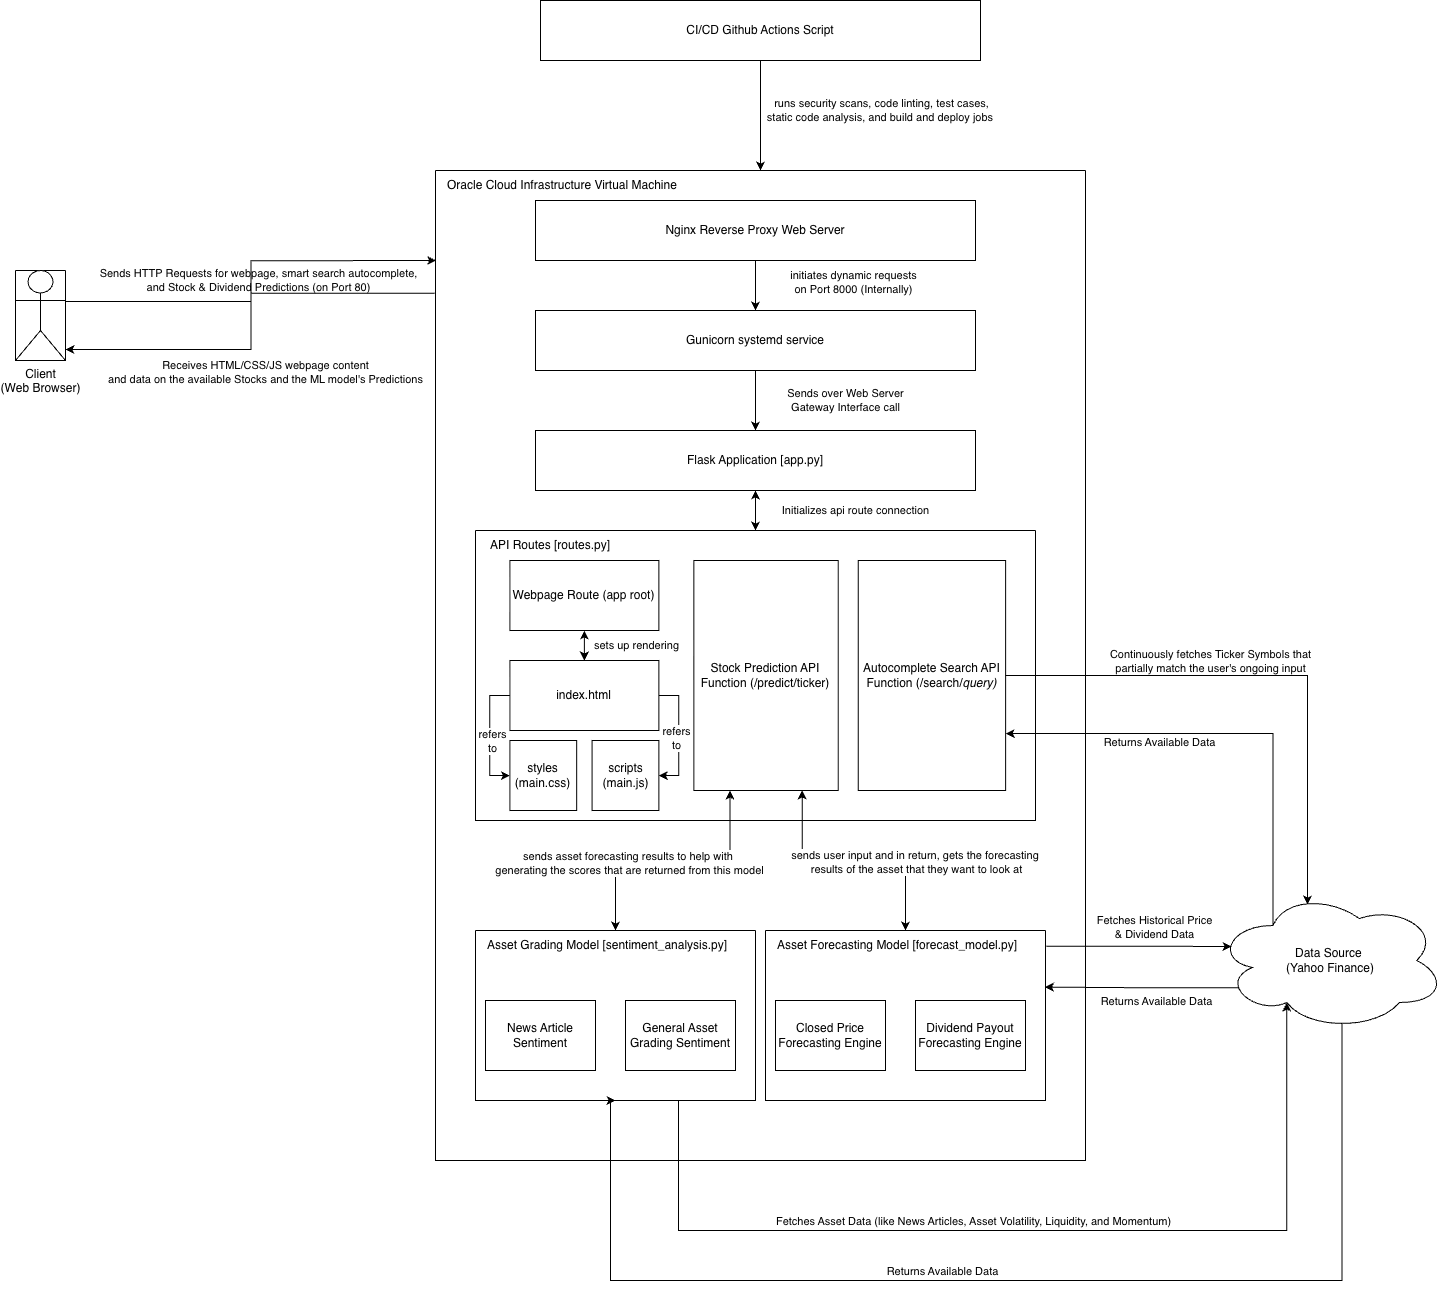
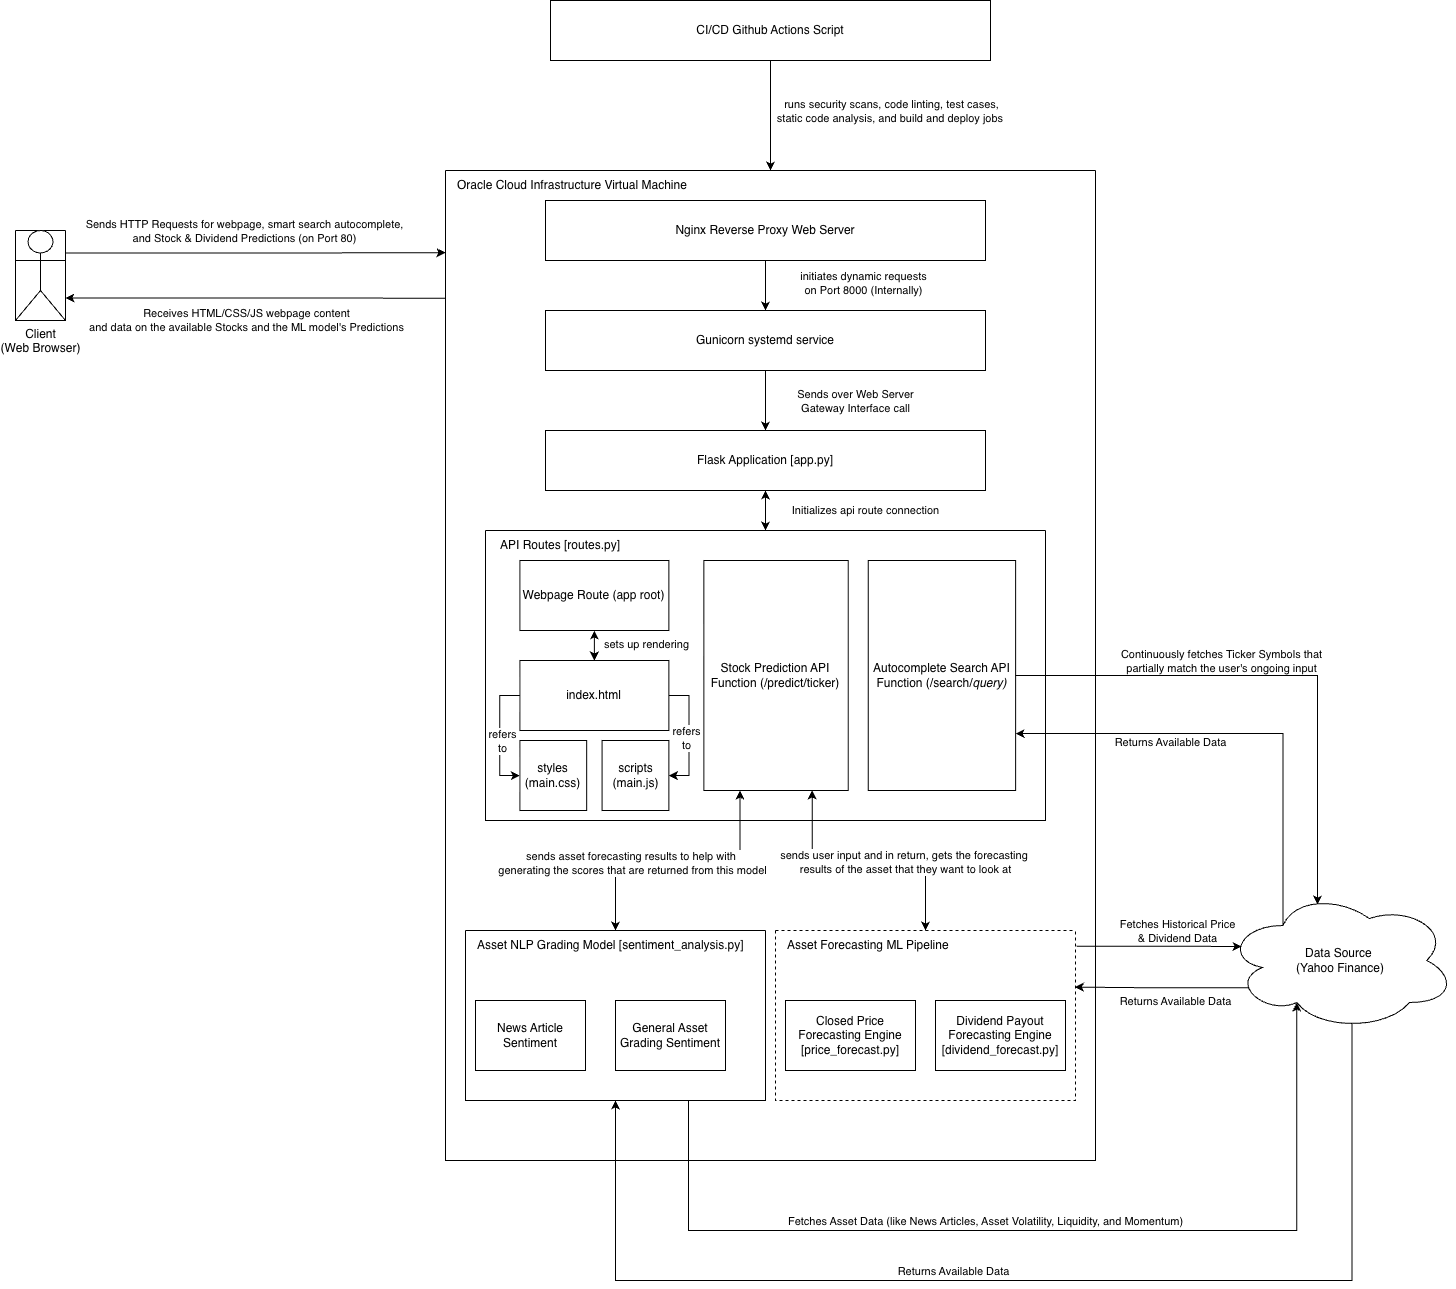
removed duplicated code

diff --git a/backend/apis/routes.py b/backend/apis/routes.py
@@ -145,6 +145,108 @@ def search(query):
         logger.error(f"Search API error: {e}")
         return jsonify([])
 
+def _run_prediction_pipeline(safe_ticker):
+    """Generator that runs the entire ML pipeline and yields progress updates, ending with the final payload."""
+    yield {"status": "processing", "step": "Gathering financial data", "progress": 15}
+    
+    # Fetch Company Fundamentals
+    info, is_fund, is_crypto, top_holdings, top_sectors = _fetch_company_fundamentals(safe_ticker)
+
+    # Run Quantitative ML
+    price_data_raw, div_data_raw = fetch_data(safe_ticker, target_window=1260, is_crypto=is_crypto)
+    if price_data_raw is None:
+        yield {"status": "error", "error": f"Invalid ticker or insufficient data for {safe_ticker}."}
+        return
+        
+    anchor_date = price_data_raw.index[-1]
+    today_close = float(price_data_raw["Close"].iloc[-1])
+
+    yield {"status": "processing", "step": "Predicting future prices", "progress": 30}
+    
+    # Run Price ML
+    price_results = run_price_prediction(price_data_raw, is_crypto=is_crypto, price_window=1260)
+    chart_future_dates, chart_future_prices, chart_future_upper, chart_future_lower = generate_future_chart_data(
+        price_results["p_anchors"], price_results["p_lower"], price_results["p_upper"], anchor_date, is_crypto, is_div=False
+    )
+
+    yield {"status": "processing", "step": "Predicting dividend payouts", "progress": 45}
+    
+    # Run Dividend ML
+    div_results = run_dividend_prediction(div_data_raw, anchor_date, div_window=25)
+    div_future_dates, div_future_amounts, div_future_upper, div_future_lower = generate_future_chart_data(
+        div_results["d_anchors"], div_results["d_lower"], div_results["d_upper"], anchor_date, is_crypto, is_div=True, avg_days_between=div_results["avg_days_between"]
+    )
+    
+    train_fit_div_dates = div_results["train_fit_div_dates"][-5:] if div_results["has_enough_div_data"] else []
+    train_fit_div_amounts = div_results["train_fit_div_amounts"][-5:] if div_results["has_enough_div_data"] else []
+    
+    days_in_year = 365 if is_crypto else 252
+    train_fit_dates = price_results["train_fit_dates"][-days_in_year:]
+    train_fit_prices = price_results["train_fit_prices"][-days_in_year:]
+    
+    chart_history = get_chart_data(
+        price_data=price_data_raw, 
+        div_data=div_data_raw,
+        is_crypto=is_crypto, 
+        show_all_prices=not price_results["has_enough_price_data"], 
+        show_all_divs=not div_results["has_enough_div_data"]
+    )
+    
+    raw_ml_data = {
+        "anchor_date": anchor_date,
+        "today_close": today_close,
+        "next_dividend_date": div_results["next_dividend_date"],
+        "price_forecasts": price_results["price_forecasts"],
+        "chart_future_dates": chart_future_dates,
+        "chart_future_prices": chart_future_prices,
+        "chart_future_upper": chart_future_upper,
+        "chart_future_lower": chart_future_lower,
+        "train_fit_dates": train_fit_dates,
+        "train_fit_prices": train_fit_prices,
+        "div_forecasts": div_results["div_forecasts"],
+        "div_future_dates": div_future_dates,
+        "div_future_amounts": div_future_amounts,
+        "div_future_upper": div_future_upper,
+        "div_future_lower": div_future_lower,
+        "train_fit_div_dates": train_fit_div_dates,
+        "train_fit_div_amounts": train_fit_div_amounts,
+    }
+
+    yield {"status": "processing", "step": "Reading latest news", "progress": 60}
+    
+    # Run NLP Sentiment Analysis
+    sentiment_score, news_dict = analyze_news_sentiment(safe_ticker)
+    
+    yield {"status": "processing", "step": "Analyzing market sentiment", "progress": 85}
+    
+    # Calculate Final Asset Grade
+    stock_grade, general_sentiment, fundamentals_dict = calculate_asset_grade(
+        raw_ml_data.get("price_forecasts", {}), 
+        raw_ml_data.get("div_forecasts", {}), 
+        sentiment_score,
+        info,
+        is_fund
+    )
+    
+    master_reasoning = {
+        "news": news_dict,
+        "fundamentals": fundamentals_dict,
+        "etf_holdings": top_holdings,
+        "etf_sectors": top_sectors
+    }
+    
+    nlp_data = {
+        "sentiment": general_sentiment,
+        "reasoning": master_reasoning,
+        "grade": stock_grade
+    }
+
+    # Format and Package the Final JSON Payload
+    final_payload = build_frontend_payload(safe_ticker, raw_ml_data, chart_history, nlp_data, info, is_crypto)
+    clean_result = sanitize_for_json(final_payload)
+    
+    yield {"status": "complete", "progress": 100, "result": clean_result}
+
 @api_bp.route('/predict/<string:ticker>', methods=['GET'])
 @cached(cache=forecast_cache)
 def predict(ticker):
@@ -153,97 +255,13 @@ def predict(ticker):
     logger.info(f" Received prediction request for ticker: {safe_ticker}")
     
     try:
-        # Fetch Company Fundamentals
-        info, is_fund, is_crypto, top_holdings, top_sectors = _fetch_company_fundamentals(safe_ticker)
-
-        # Run Quantitative ML
-        price_data_raw, div_data_raw = fetch_data(safe_ticker, target_window=1260, is_crypto=is_crypto)
-        if price_data_raw is None:
-            return jsonify({"error": f"Invalid ticker or insufficient data for {safe_ticker}."}), 404
-            
-        anchor_date = price_data_raw.index[-1]
-        today_close = float(price_data_raw["Close"].iloc[-1])
-
-        # Run Price ML
-        price_results = run_price_prediction(price_data_raw, is_crypto=is_crypto, price_window=1260)
-        chart_future_dates, chart_future_prices, chart_future_upper, chart_future_lower = generate_future_chart_data(
-            price_results["p_anchors"], price_results["p_lower"], price_results["p_upper"], anchor_date, is_crypto, is_div=False
-        )
-
-        # Run Dividend ML
-        div_results = run_dividend_prediction(div_data_raw, anchor_date, div_window=25)
-        div_future_dates, div_future_amounts, div_future_upper, div_future_lower = generate_future_chart_data(
-            div_results["d_anchors"], div_results["d_lower"], div_results["d_upper"], anchor_date, is_crypto, is_div=True, avg_days_between=div_results["avg_days_between"]
-        )
-        
-        train_fit_div_dates = div_results["train_fit_div_dates"][-5:] if div_results["has_enough_div_data"] else []
-        train_fit_div_amounts = div_results["train_fit_div_amounts"][-5:] if div_results["has_enough_div_data"] else []
-        
-        days_in_year = 365 if is_crypto else 252
-        train_fit_dates = price_results["train_fit_dates"][-days_in_year:]
-        train_fit_prices = price_results["train_fit_prices"][-days_in_year:]
-        
-        chart_history = get_chart_data(
-            price_data=price_data_raw, 
-            div_data=div_data_raw,
-            is_crypto=is_crypto, 
-            show_all_prices=not price_results["has_enough_price_data"], 
-            show_all_divs=not div_results["has_enough_div_data"]
-        )
-        
-        raw_ml_data = {
-            "anchor_date": anchor_date,
-            "today_close": today_close,
-            "next_dividend_date": div_results["next_dividend_date"],
-            "price_forecasts": price_results["price_forecasts"],
-            "chart_future_dates": chart_future_dates,
-            "chart_future_prices": chart_future_prices,
-            "chart_future_upper": chart_future_upper,
-            "chart_future_lower": chart_future_lower,
-            "train_fit_dates": train_fit_dates,
-            "train_fit_prices": train_fit_prices,
-            "div_forecasts": div_results["div_forecasts"],
-            "div_future_dates": div_future_dates,
-            "div_future_amounts": div_future_amounts,
-            "div_future_upper": div_future_upper,
-            "div_future_lower": div_future_lower,
-            "train_fit_div_dates": train_fit_div_dates,
-            "train_fit_div_amounts": train_fit_div_amounts,
-        }
-
-        # Run NLP Sentiment Analysis
-        sentiment_score, news_dict = analyze_news_sentiment(safe_ticker)
-        
-        # 6. Calculate Final Asset Grade
-        stock_grade, general_sentiment, fundamentals_dict = calculate_asset_grade(
-            raw_ml_data.get("price_forecasts", {}), 
-            raw_ml_data.get("div_forecasts", {}), 
-            sentiment_score,
-            info,
-            is_fund
-        )
-        
-        # Assemble Master Reasoning JSON Object
-        master_reasoning = {
-            "news": news_dict,
-            "fundamentals": fundamentals_dict,
-            "etf_holdings": top_holdings,
-            "etf_sectors": top_sectors
-        }
-        
-        nlp_data = {
-            "sentiment": general_sentiment,
-            "reasoning": master_reasoning,
-            "grade": stock_grade
-        }
-
-        # Format and Package the Final JSON Payload
-        final_payload = build_frontend_payload(safe_ticker, raw_ml_data, chart_history, nlp_data, info, is_crypto)
-        clean_result = sanitize_for_json(final_payload)
-
-        logger.info(f"Successfully generated prediction for {safe_ticker}.")
-        return jsonify(clean_result)
-
+        for update in _run_prediction_pipeline(safe_ticker):
+            if update["status"] == "complete":
+                logger.info(f"Successfully generated prediction for {safe_ticker}.")
+                return jsonify(update["result"])
+            elif update["status"] == "error":
+                return jsonify({"error": update["error"]}), 404
+                
     except Exception as e:
         logger.error(f"Error for ticker {safe_ticker}: {e}", exc_info=True)
         return jsonify({"error": "An internal server error occurred."}), 500
@@ -260,105 +278,11 @@ def predict_stream(ticker):
                 yield f"data: {json.dumps({'status': 'complete', 'progress': 100, 'result': forecast_cache[safe_ticker]})}\n\n"
                 return
 
-            yield f"data: {json.dumps({'status': 'processing', 'step': 'Gathering financial data', 'progress': 15})}\n\n"
-            
-            # Fetch Company Fundamentals
-            info, is_fund, is_crypto, top_holdings, top_sectors = _fetch_company_fundamentals(safe_ticker)
-
-            price_data_raw, div_data_raw = fetch_data(safe_ticker, target_window=1260, is_crypto=is_crypto)
-            if price_data_raw is None:
-                yield f"data: {json.dumps({'status': 'error', 'error': f'Invalid ticker or insufficient data for {safe_ticker}.'})}\n\n"
-                return
-                
-            anchor_date = price_data_raw.index[-1]
-            today_close = float(price_data_raw["Close"].iloc[-1])
-
-            yield f"data: {json.dumps({'status': 'processing', 'step': 'Predicting future prices', 'progress': 30})}\n\n"
-            
-            # Run Price ML
-            price_results = run_price_prediction(price_data_raw, is_crypto=is_crypto, price_window=1260)
-            chart_future_dates, chart_future_prices, chart_future_upper, chart_future_lower = generate_future_chart_data(
-                price_results["p_anchors"], price_results["p_lower"], price_results["p_upper"], anchor_date, is_crypto, is_div=False
-            )
-
-            yield f"data: {json.dumps({'status': 'processing', 'step': 'Predicting dividend payouts', 'progress': 45})}\n\n"
-            
-            # Run Dividend ML
-            div_results = run_dividend_prediction(div_data_raw, anchor_date, div_window=25)
-            div_future_dates, div_future_amounts, div_future_upper, div_future_lower = generate_future_chart_data(
-                div_results["d_anchors"], div_results["d_lower"], div_results["d_upper"], anchor_date, is_crypto, is_div=True, avg_days_between=div_results["avg_days_between"]
-            )
-            
-            train_fit_div_dates = div_results["train_fit_div_dates"][-5:] if div_results["has_enough_div_data"] else []
-            train_fit_div_amounts = div_results["train_fit_div_amounts"][-5:] if div_results["has_enough_div_data"] else []
-            
-            days_in_year = 365 if is_crypto else 252
-            train_fit_dates = price_results["train_fit_dates"][-days_in_year:]
-            train_fit_prices = price_results["train_fit_prices"][-days_in_year:]
-            
-            chart_history = get_chart_data(
-                price_data=price_data_raw, 
-                div_data=div_data_raw,
-                is_crypto=is_crypto, 
-                show_all_prices=not price_results["has_enough_price_data"], 
-                show_all_divs=not div_results["has_enough_div_data"]
-            )
-            
-            raw_ml_data = {
-                "anchor_date": anchor_date,
-                "today_close": today_close,
-                "next_dividend_date": div_results["next_dividend_date"],
-                "price_forecasts": price_results["price_forecasts"],
-                "chart_future_dates": chart_future_dates,
-                "chart_future_prices": chart_future_prices,
-                "chart_future_upper": chart_future_upper,
-                "chart_future_lower": chart_future_lower,
-                "train_fit_dates": train_fit_dates,
-                "train_fit_prices": train_fit_prices,
-                "div_forecasts": div_results["div_forecasts"],
-                "div_future_dates": div_future_dates,
-                "div_future_amounts": div_future_amounts,
-                "div_future_upper": div_future_upper,
-                "div_future_lower": div_future_lower,
-                "train_fit_div_dates": train_fit_div_dates,
-                "train_fit_div_amounts": train_fit_div_amounts,
-            }
-
-            yield f"data: {json.dumps({'status': 'processing', 'step': 'Reading latest news', 'progress': 60})}\n\n"
-            
-            # Run NLP Sentiment Analysis (this takes the longest)
-            sentiment_score, news_dict = analyze_news_sentiment(safe_ticker)
-            
-            yield f"data: {json.dumps({'status': 'processing', 'step': 'Analyzing market sentiment', 'progress': 85})}\n\n"
-            
-            stock_grade, general_sentiment, fundamentals_dict = calculate_asset_grade(
-                raw_ml_data.get("price_forecasts", {}), 
-                raw_ml_data.get("div_forecasts", {}), 
-                sentiment_score,
-                info,
-                is_fund
-            )
-            
-            master_reasoning = {
-                "news": news_dict,
-                "fundamentals": fundamentals_dict,
-                "etf_holdings": top_holdings,
-                "etf_sectors": top_sectors
-            }
-            
-            nlp_data = {
-                "sentiment": general_sentiment,
-                "reasoning": master_reasoning,
-                "grade": stock_grade
-            }
-
-            final_payload = build_frontend_payload(safe_ticker, raw_ml_data, chart_history, nlp_data, info, is_crypto)
-            clean_result = sanitize_for_json(final_payload)
-
-            # Store in cache
-            forecast_cache[safe_ticker] = clean_result
-
-            yield f"data: {json.dumps({'status': 'complete', 'progress': 100, 'result': clean_result})}\n\n"
+            for update in _run_prediction_pipeline(safe_ticker):
+                yield f"data: {json.dumps(update)}\n\n"
+                if update["status"] == "complete":
+                    # Store in cache
+                    forecast_cache[safe_ticker] = update["result"]
 
         except Exception as e:
             logger.error(f"Streaming error for ticker {safe_ticker}: {e}", exc_info=True)
